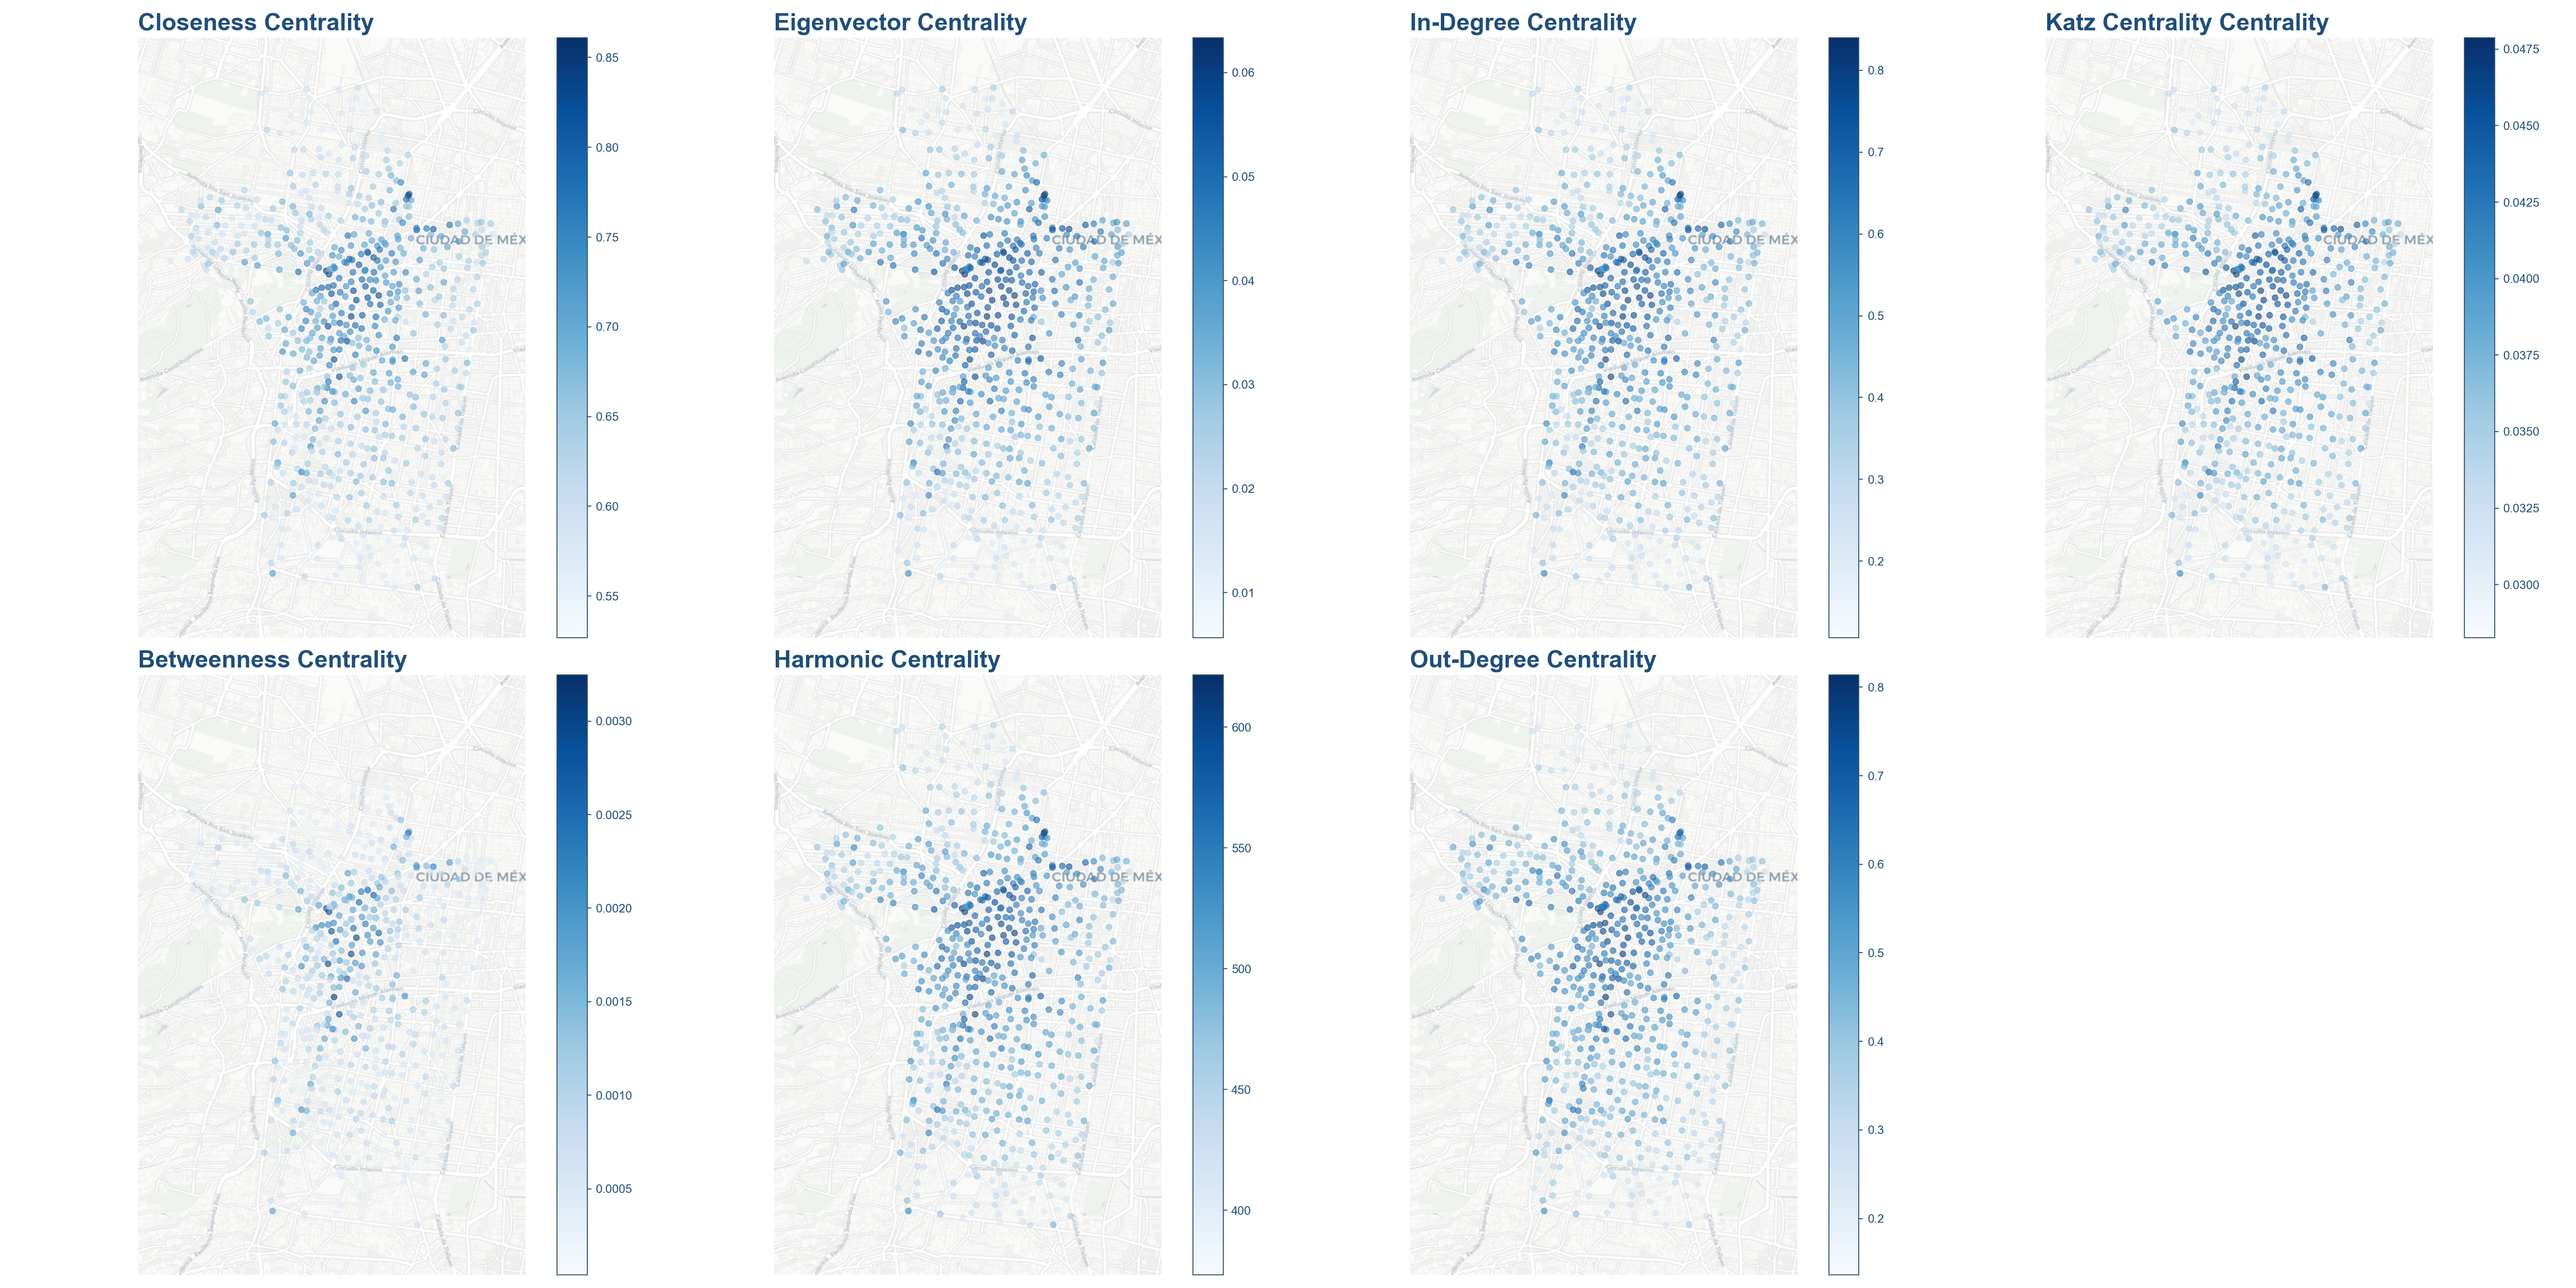
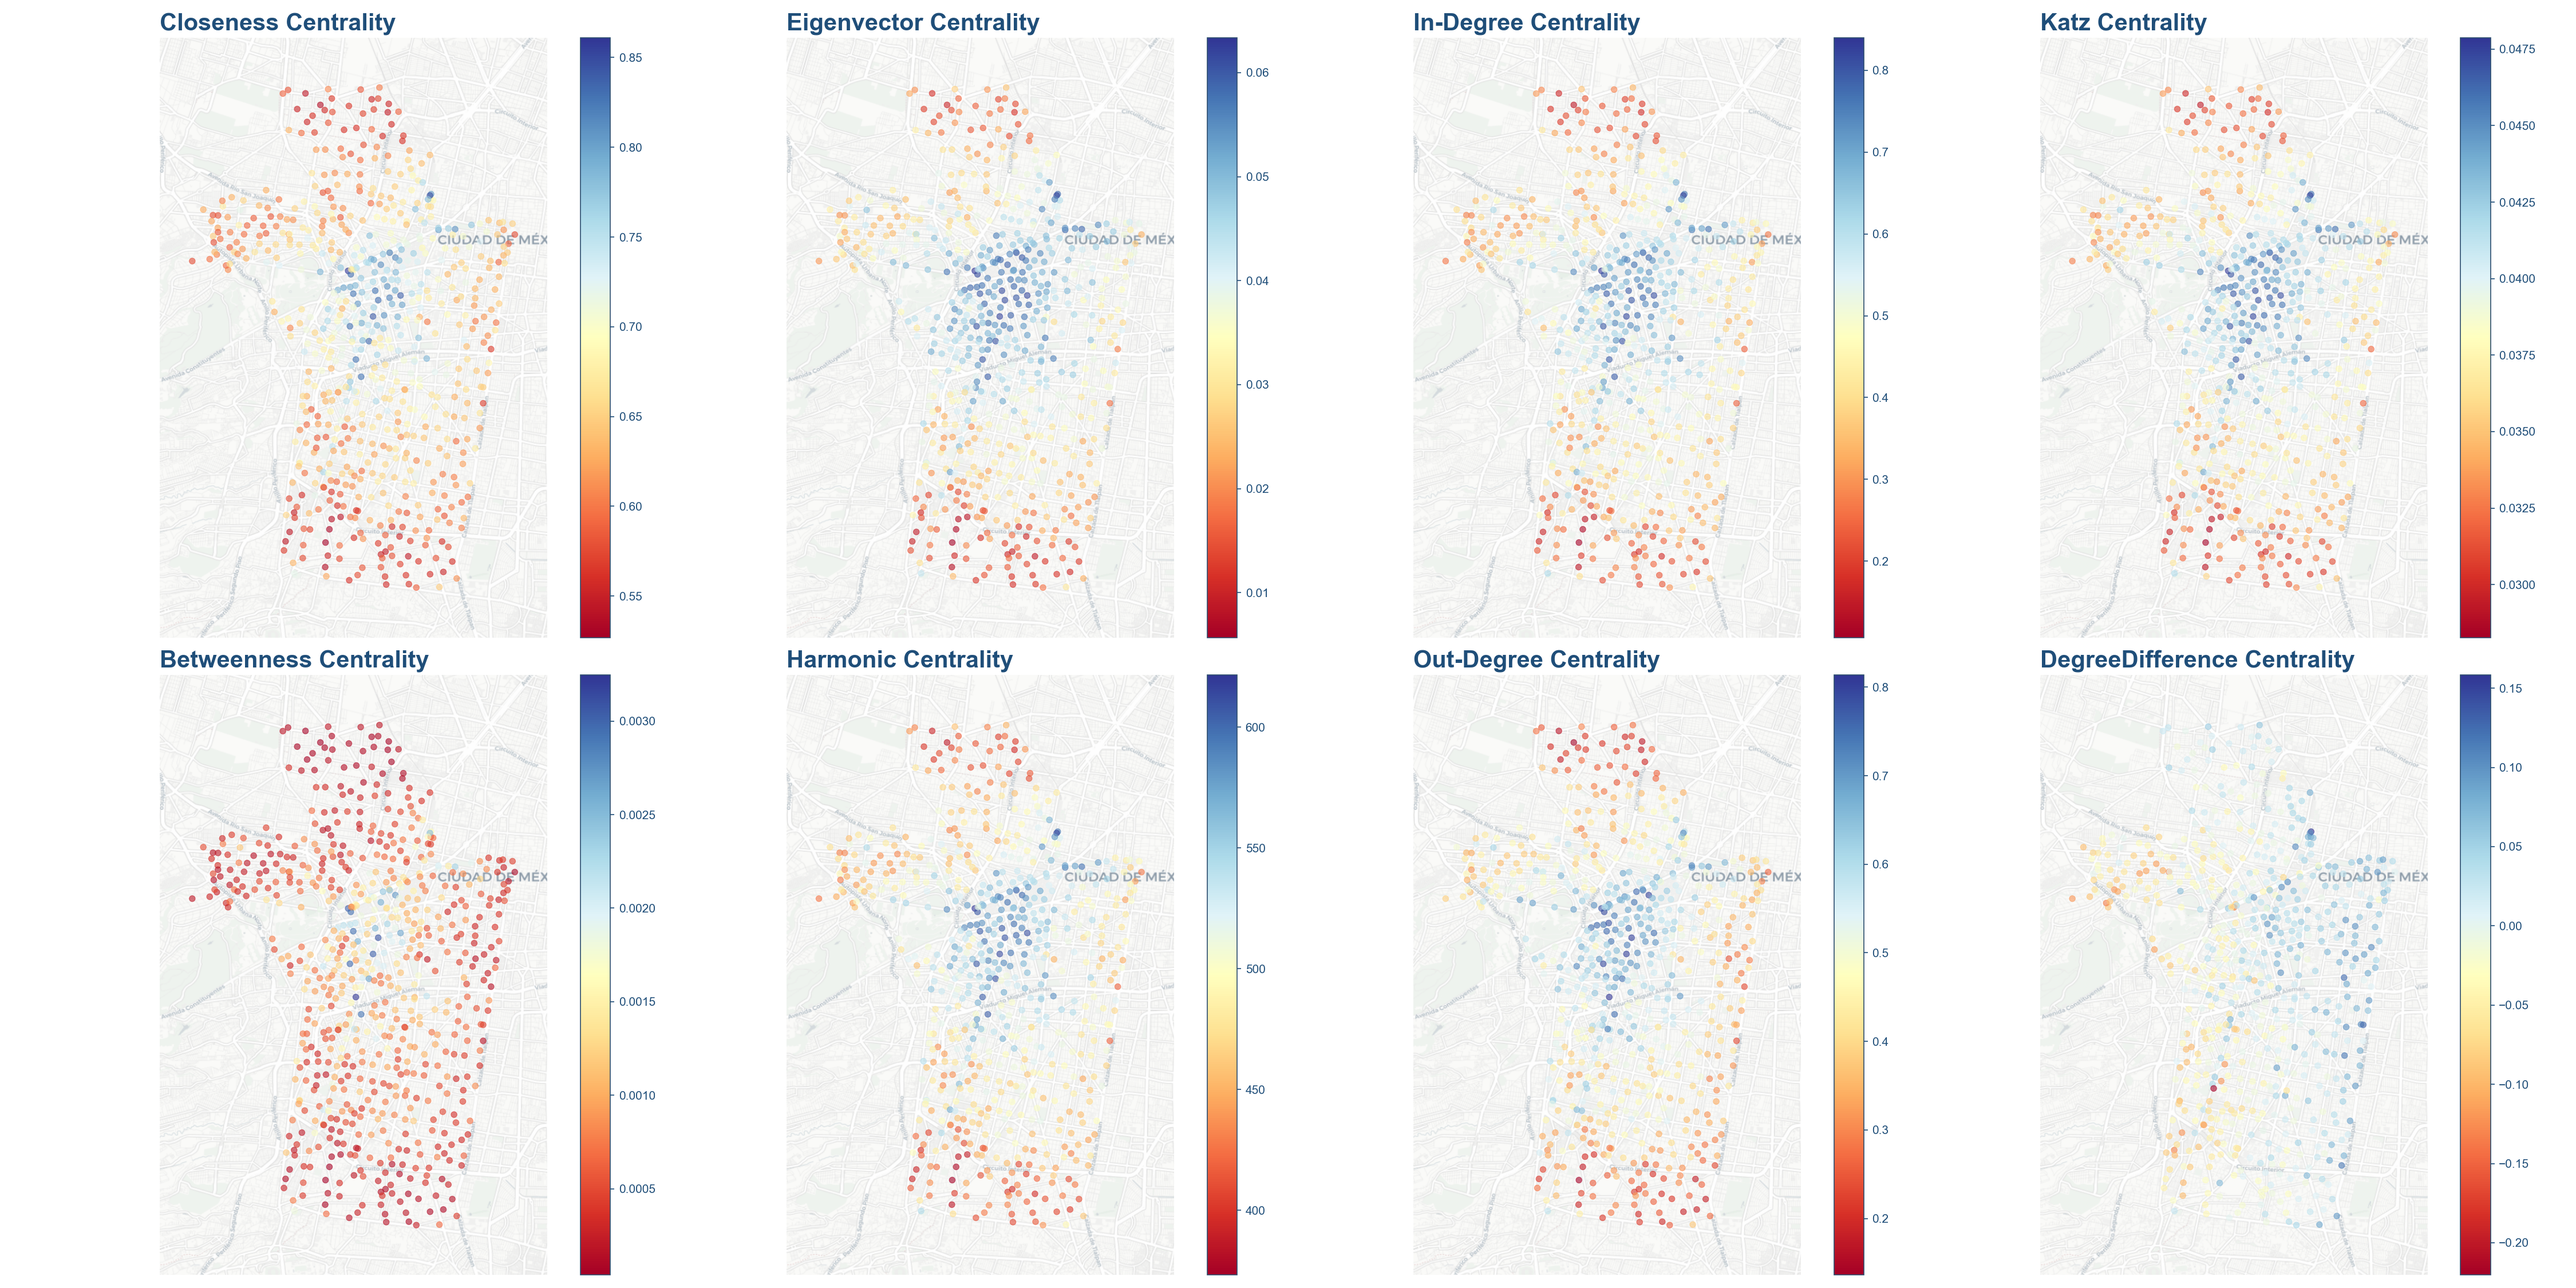
Update OD data analysis, change pics

diff --git a/project-ecobike/looking-at-origin-destination-data.md b/project-ecobike/looking-at-origin-destination-data.md
@@ -37,3 +37,18 @@ At a quick glance, we can notice the following:
   
   - There's a line of stations going from north to south that scores relatively high. This line is near Insurgentes (one of the main streets in Mexico City), which also has a bike lane.
   - In the northeastern coverage area, several centrality metrics score highly (in-degree, out-degree, eigenvector, Katz centralities). These are all near Buenavista (which, if you'll [recall](a-first-glance.md#comments), was the busiest station in the full network), which makes sense, given just how many people move through that particular station.
+- The in-degree and out-degree centralities are different in magnitude for these stations, which suggests an imbalance. This imbalance can be seen in the bottom-right chart, showing the difference between in-degree and out-degree centralities. Looking at this, we can see that stations near the eastern part of the grid tend to receive more bikes, while the western of the network tend to get depleted.
+
+Looking at this last point, we can take a look at how these imbalances look throughout the month. We'll consider this imbalance by adding each arrival at a given station, and subtracting each departure from the same station, ordered by timestamp throughout the month. Here's the chart depicting this:
+![Imbalance throughout the month](/assets/images/cumulative_imbalance_may2025.png)
+
+And looking at this, we can see several patterns:
+
+1. Lots of stations tend to be somewhat balanced, on average, and fall near the center (meaning they don't get depleted consistently, or filled consistently as well)
+2. There are some outlier stations that are much more frequently arrivals than destinations[^1]. Inspecting these outliers, we see two sub-patterns within them:
+    1. Some have "jagged" figures, where we can clearly see they get much more filled at a certain point in day, but then get depleted. These rates are not equal, which causes the accumulated imbalance. We can assume that these *spikes* happen because the station reaches its capacity constraints (either because it completely fills, or because it completely empties).
+    2. Some have "smooth" trajectories, suggesting they consistently get accumulated / depleted. We can hypothesize this happens due to geographical constraints (say, if the station is found uphill respect to its origins).
+
+Let's later confirm these hypotheses, which might bring interesting insights \[WIP\]
+
+[^1]: Remembering the definition of in-degree and out-degree, if we subtract the out-degree from the in-degree, we'd get the final point for each station on this chart.
